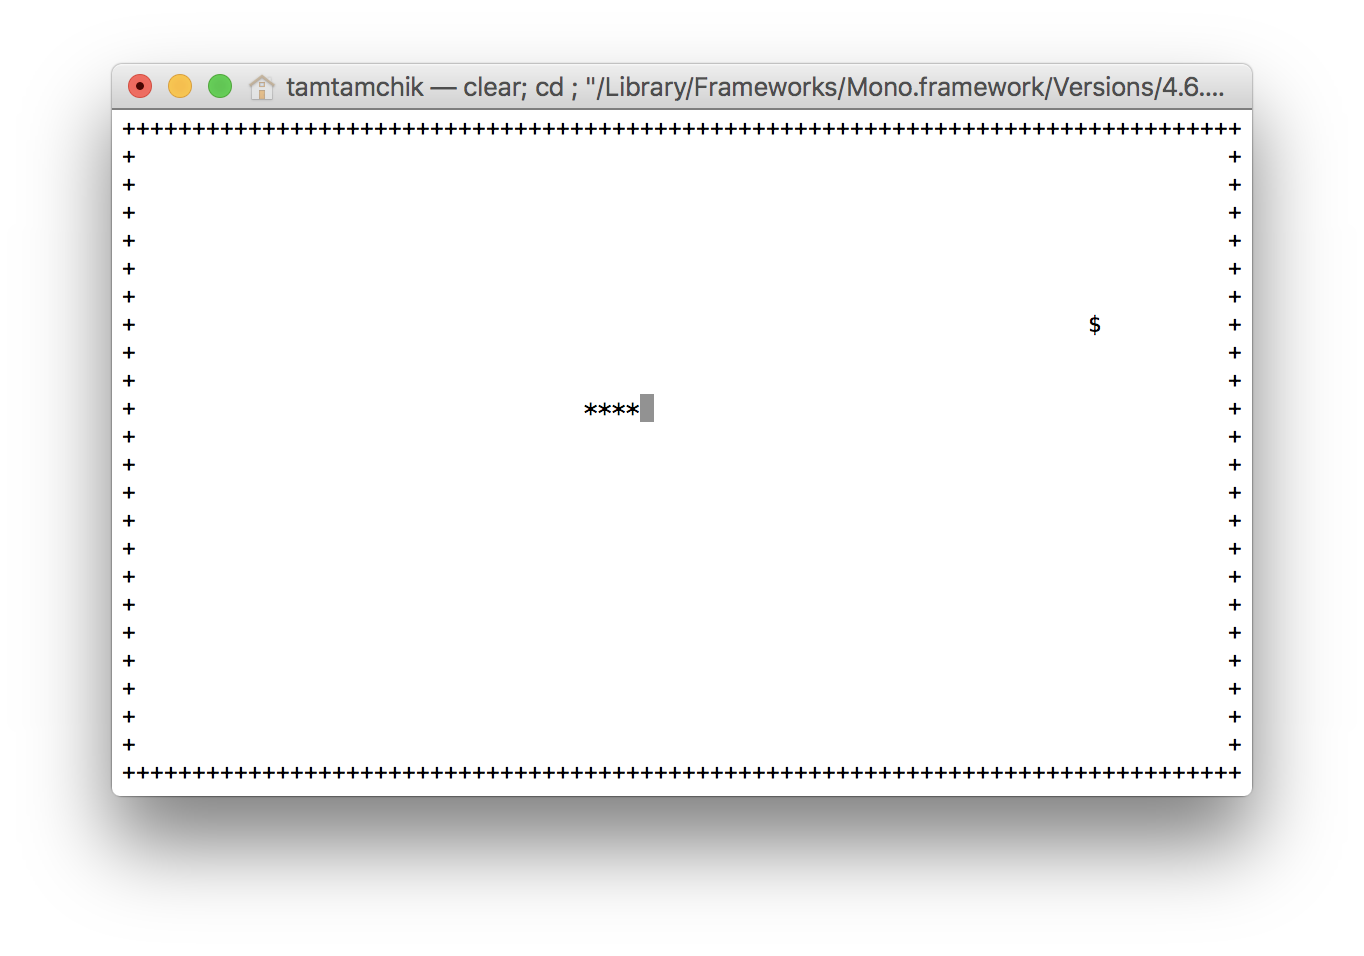
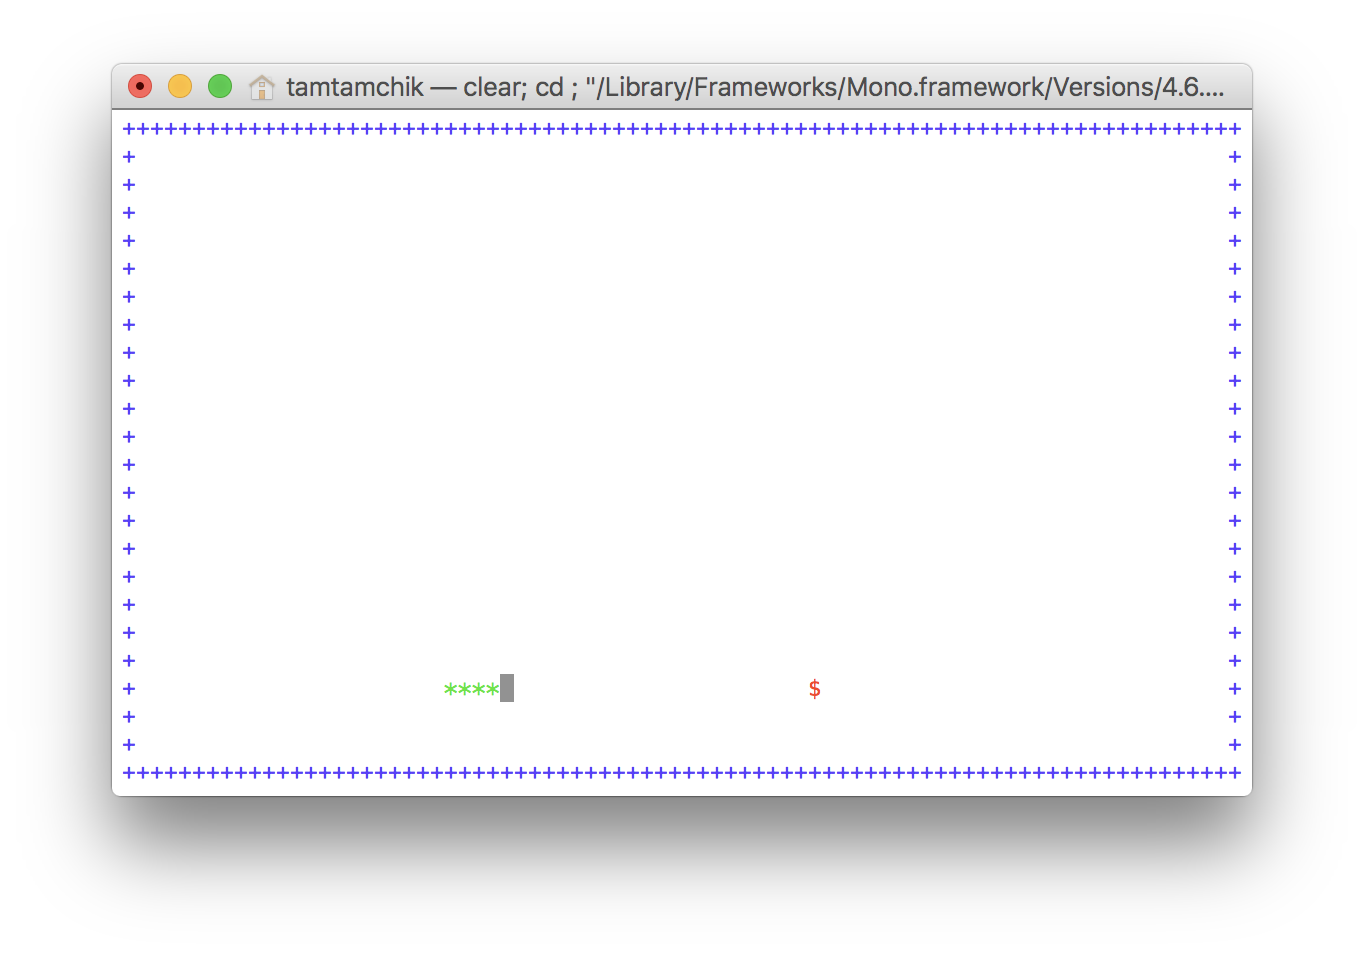
added walls and colors

diff --git a/monosnake/Program.cs b/monosnake/Program.cs
@@ -11,16 +11,8 @@ namespace monosnake
 			int width = Console.BufferWidth - 1;
 			int height = Console.BufferHeight - 1;
 
-			HorizontalLine upLine = new HorizontalLine(0, width, 0, '+');
-			HorizontalLine downLine = new HorizontalLine(0, width, height, '+');
-
-			VerticalLine leftLine = new VerticalLine(0, height, 0, '+');
-			VerticalLine rightLine = new VerticalLine(0, height, width, '+');
-
-			upLine.Draw();
-			downLine.Draw();
-			leftLine.Draw();
-			rightLine.Draw();
+			Walls walls = new Walls(width, height);
+			walls.Draw();
 
 			Point p = new Point(4, 5, '*');
 			Snake snake = new Snake(p, 4, Directions.RIGHT);
@@ -33,6 +25,10 @@ namespace monosnake
 
 			while (true)
 			{
+				if (walls.IsHit(snake) || snake.IsHitTail())
+				{
+					break;
+				}
 
 				if (snake.Eat(food))
 				{
@@ -43,7 +39,7 @@ namespace monosnake
 					snake.Move();
 				}
 
-				Thread.Sleep(100);
+				Thread.Sleep(300);
 
 				if (Console.KeyAvailable)
 				{
@@ -53,6 +49,26 @@ namespace monosnake
 					if (key.Key == ConsoleKey.Escape) break;
 				}
 			}
+
+			WriteGameOver();
+			Console.ReadLine();
+		}
+
+		static void WriteGameOver()
+		{
+			int xOffset = 25;
+			int yOffset = 8;
+			Console.ForegroundColor = ConsoleColor.Red;
+			Console.SetCursorPosition(xOffset, yOffset++);
+			WriteText("============================", xOffset, yOffset++);
+			WriteText("     G A M E    O V E R     ", xOffset + 1, yOffset++);
+			WriteText("============================", xOffset, yOffset++);
+		}
+
+		static void WriteText(String text, int xOffset, int yOffset)
+		{
+			Console.SetCursorPosition(xOffset, yOffset);
+			Console.WriteLine(text);
 		}
 	}
 }

diff --git a/monosnake/Point.cs b/monosnake/Point.cs
@@ -7,23 +7,26 @@ namespace monosnake
 		public int x;
 		public int y;
 		public char sym;
+		public ConsoleColor color;
 
 		public Point()
 		{
 		}
 
-		public Point(int _x, int _y, char _sym)
+		public Point(int x, int y, char sym, ConsoleColor color = ConsoleColor.Blue)
 		{
-			x = _x;
-			y = _y;	
-			sym = _sym;
+			this.x = x;
+			this.y = y;	
+			this.sym = sym;
+			this.color = color;
 		}
 
 		public Point(Point p)
 		{
-			x = p.x;
-			y = p.y;
-			sym = p.sym;
+			this.x = p.x;
+			this.y = p.y;
+			this.sym = p.sym;
+			this.color = p.color;
 		}
 
 		public void Move(int offset, Directions direction)
@@ -48,6 +51,7 @@ namespace monosnake
 
 		public void Draw()
 		{
+			Console.ForegroundColor = this.color;
 			Console.SetCursorPosition(x, y);
 			Console.Write(sym);
 		}
@@ -60,7 +64,7 @@ namespace monosnake
 
 		public bool IsHit(Point p)
 		{
-			return p.x == this.x && p.y == this.y;
+			return p.x == x && p.y == y;
 		}
 
 		public override string ToString()

diff --git a/monosnake/Snake.cs b/monosnake/Snake.cs
@@ -8,10 +8,13 @@ namespace monosnake
 	{
 		Directions direction;
 
+		private ConsoleColor color = ConsoleColor.Green;
+
 		public Snake(Point tail, int length, Directions _direction)
 		{
 			direction = _direction;
 			pList = new List<Point>();
+			tail.color = this.color;
 
 			for (int i = 0; i < length; i++)
 			{
@@ -29,7 +32,7 @@ namespace monosnake
 			pList.Add(head);
 
 			tail.Clear();
-			head.Draw();
+			Draw();
 		}
 
 		public Point GetNextPoint()
@@ -39,6 +42,20 @@ namespace monosnake
 			nextPoint.Move(1, direction);
 
 			return nextPoint;
+		}
+
+		internal bool IsHitTail()
+		{
+			Point head = pList.Last();
+
+			for (int i = 0; i < pList.Count - 2; i++) {
+				
+				if (head.IsHit(pList[i])) {
+					return true;	
+				}
+			}
+
+			return false;
 		}
 
 		public void HandleKey(ConsoleKey key)
@@ -60,6 +77,7 @@ namespace monosnake
 			if (head.IsHit(food))
 			{
 				food.sym = head.sym;
+				food.color = color;
 				food.Draw();
 				pList.Add(food);
 

diff --git a/monosnake/Walls.cs b/monosnake/Walls.cs
@@ -1,0 +1,47 @@
+using System;
+using System.Collections.Generic;
+
+namespace monosnake
+{
+	public class Walls
+	{
+		List<Figure> wallsList;
+
+		public Walls(int mapWidth, int mapHeight)
+		{
+			wallsList = new List<Figure>();
+
+			HorizontalLine upLine = new HorizontalLine(0, mapWidth, 0, '+');
+			HorizontalLine downLine = new HorizontalLine(0, mapWidth, mapHeight, '+');
+
+			VerticalLine leftLine = new VerticalLine(0, mapHeight, 0, '+');
+			VerticalLine rightLine = new VerticalLine(0, mapHeight, mapWidth, '+');
+
+			wallsList.Add(upLine);
+			wallsList.Add(downLine);
+			wallsList.Add(leftLine);
+			wallsList.Add(rightLine);
+		}
+
+		public void Draw()
+		{
+			foreach (Figure wall in wallsList)
+			{
+				wall.Draw();
+			}
+		}
+
+		internal bool IsHit(Figure figure)
+		{
+			foreach (Figure wall in wallsList)
+			{
+				if (wall.IsHit(figure))
+				{
+					return true;
+				}
+			}
+
+			return false;
+		}
+	}
+}

diff --git a/monosnake/FoodCreator.cs b/monosnake/FoodCreator.cs
@@ -3,25 +3,27 @@ namespace monosnake
 {
 	public class FoodCreator
 	{
-		int width;
-		int height;
+		int mapWidth;
+		int mapHeight;
 		char sym;
+
+		private ConsoleColor color = ConsoleColor.Red;
 
 		Random random = new Random();
 
-		public FoodCreator(int width, int height, char sym)
+		public FoodCreator(int mapWidth, int mapHeight, char sym)
 		{
-			this.width = width;
-			this.height = height;
+			this.mapWidth = mapWidth;
+			this.mapHeight = mapHeight;
 			this.sym = sym;
 		}
 
 		internal Point CreateFood()
 		{
-			int x = random.Next(2, width - 2);
-			int y = random.Next(2, height - 2);
+			int x = random.Next(2, mapWidth - 2);
+			int y = random.Next(2, mapHeight - 2);
 
-			return new Point(x, y, sym);
+			return new Point(x, y, sym, color);
 		}
 	}
 }

diff --git a/monosnake/Figure.cs b/monosnake/Figure.cs
@@ -18,5 +18,31 @@ namespace monosnake
 				p.Draw();
 			}
 		}
+
+		internal bool IsHit(Figure figure)
+		{
+			foreach (Point p in pList)
+			{
+				if (figure.IsHit(p))
+				{
+					return true;
+				}
+			}
+
+			return false;
+		}
+
+		private bool IsHit(Point point)
+		{
+			foreach (Point p in pList)
+			{
+				if (point.IsHit(p))
+				{
+					return true;
+				}
+			}
+
+			return false;
+		}
 	}
 }
